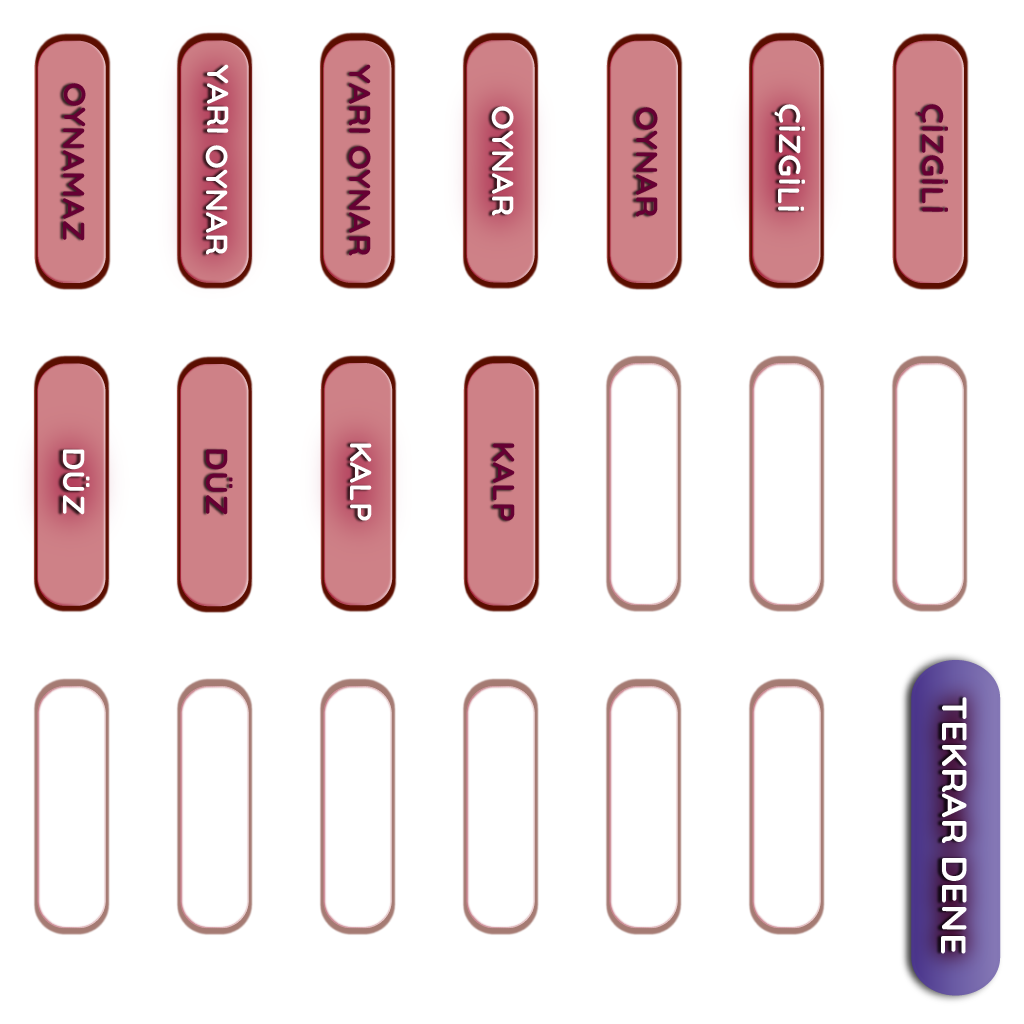
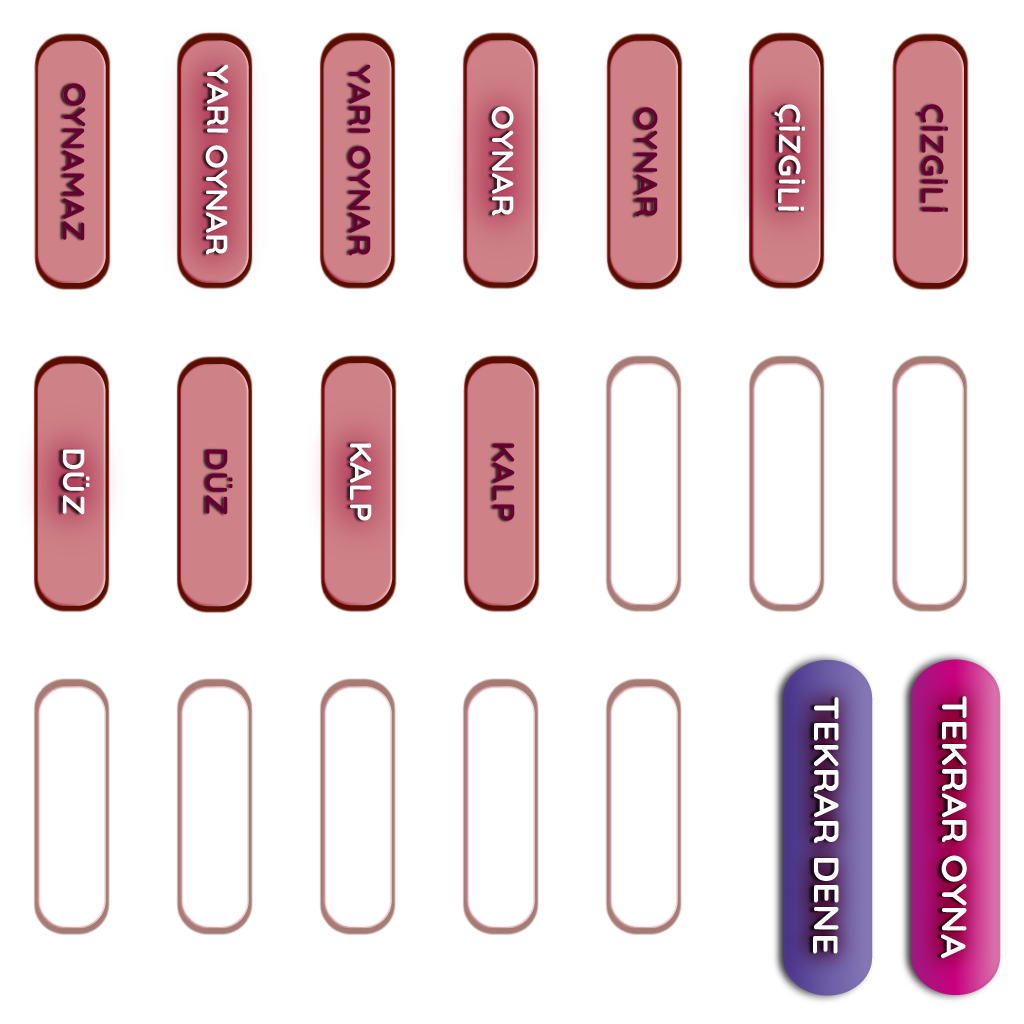
lütfensonnn

Changed region(s): [[0.7188, 0.625, 1.0, 1.0]]

diff --git a/scripts/c3runtime.js b/scripts/c3runtime.js
@@ -4245,10 +4245,9 @@ self.C3_JsPropNameTable = [
 	{kapatKaynakca: 0},
 	{hazirlayanlar: 0},
 	{kapatHazirlayanlar: 0},
-	{Sprite: 0},
 	{sure: 0},
 	{yenidenDene: 0},
-	{tekrarDene: 0},
+	{btnTekrarDene: 0},
 	{tebrikler: 0},
 	{Flash: 0},
 	{tebriklerr: 0},
@@ -4309,10 +4308,9 @@ self.InstanceType = {
 	kapatKaynakca: class extends self.ISpriteInstance {},
 	hazirlayanlar: class extends self.ISpriteInstance {},
 	kapatHazirlayanlar: class extends self.ISpriteInstance {},
-	Sprite: class extends self.ISpriteInstance {},
 	sure: class extends self.ISpriteInstance {},
 	yenidenDene: class extends self.ISpriteInstance {},
-	tekrarDene: class extends self.ISpriteInstance {},
+	btnTekrarDene: class extends self.ISpriteInstance {},
 	tebrikler: class extends self.ISpriteInstance {},
 	tebriklerr: class extends self.ISpriteInstance {},
 	konfiti: class extends self.ISpriteInstance {},
@@ -4449,11 +4447,11 @@ self.C3_ExpressionFuncs = [
 			return () => v0.GetValue();
 		},
 		() => 0.3,
-		() => "sure",
 		() => 11,
+		() => 9,
+		() => 0.5,
 		() => "tebrik",
-		() => "yeniden",
-		() => 9
+		() => "yeniden"
 ];
 
 
